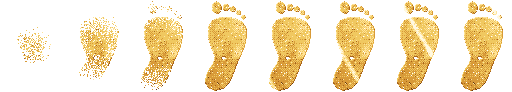
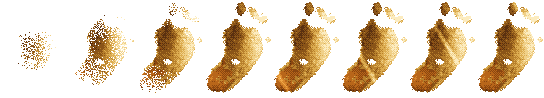
Prototypen: fotavtrykket liknar avtrykket på koppen

diff --git a/spelet-demo/js/rpg/opning.js b/spelet-demo/js/rpg/opning.js
@@ -6,7 +6,7 @@
 
    1. Lastinga: blekkhuset fyllest medan grafikken blir lasta, så «Trykk ein tast».
       Tastetrykket opnar lyden. Leddet blir hoppa over om spelet har starta før i same økta.
-   2. Logoen: eit fotavtrykk i gull (etter eit babyfotavtrykk på ein kopp) og «Lektor Ensrud presenterer».
+   2. Logoen: fotavtrykket i gull (teikna av etter eit babyfotavtrykk på ein kopp) og «Lektor Ensrud presenterer».
    3. Tittelen: ein blekkdrope blir til AASEN, og undertittelen blir gull på mørk fiolett.
    4. Startsida: logotypen og «demo» i gull, nokre stjerner, og menyen frå spel.js over.
 
@@ -112,11 +112,11 @@
   /* ---------- 2. Logoen ---------- */
   // Fotavtrykket blir trykt ned i gull, namnet kjem fram bokstav for bokstav, og ein glans går over gullet.
   async function logo() {
-    const FX = (W - 64) / 2, FY = 22, NX = (W - 160) / 2, NY = 124;
+    const FX = (W - 68) / 2, FY = 18, NX = (W - 160) / 2, NY = 124;
     let fot = -1, skrive = 0, del = 0;
     teikn = () => {
       g.fillStyle = "#000"; g.fillRect(0, 0, W, H);
-      if (fot >= 0) ramme("fot", 64, fot, FX, FY);
+      if (fot >= 0) ramme("fot", 68, fot, FX, FY);
       BOKSTAVAR.forEach(([, x0, y0, x1, y1], i) => {
         const h = i < skrive ? y1 - y0 : i === skrive ? Math.round((y1 - y0) * del / 2) : 0;
         if (h > 0) g.drawImage(B.namn, x0, y0, x1 - x0, h, NX + x0, NY + y0, x1 - x0, h);
